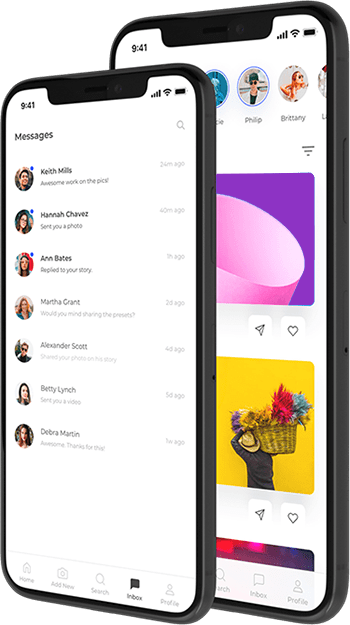
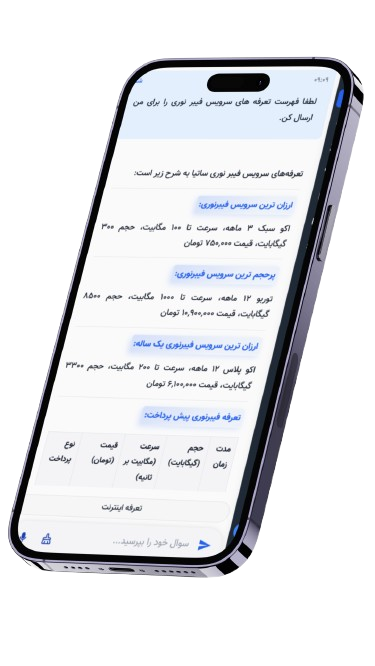
fix: edit navbar and replace some photos

diff --git a/src/app/globals.css b/src/app/globals.css
@@ -47,3 +47,44 @@ body {
   display: flex !important;
   align-items: center !important;
 }
+
+/* ===== Navbar mobile fixes ===== */
+@media (max-width: 991.98px) {
+  .navbar .navbar-collapse {
+    display: none !important;
+  }
+  .navbar .navbar-collapse.show {
+    display: block !important;
+  }
+
+  .navbar .nav-menu {
+    width: 100%;
+    margin: 12px auto 0 auto !important;
+    text-align: center !important;
+    display: flex !important;
+    flex-direction: column;
+    align-items: center;
+    gap: 6px;
+  }
+
+  .navbar .nav-menu .nav-item {
+    width: 100%;
+    display: flex;
+    justify-content: center;
+  }
+
+  .navbar .nav-menu .nav-link {
+    color: #fff !important;
+    font-weight: 500;
+    padding: 10px 0 !important;
+    display: inline-block;
+  }
+
+  .navbar .nav-menu .nav-cta {
+    width: calc(100% - 32px);
+    max-width: 320px;
+    margin: 6px auto 0 auto !important;
+    display: flex !important;
+    justify-content: center;
+  }
+}

diff --git a/src/components/Hero.tsx b/src/components/Hero.tsx
@@ -20,7 +20,7 @@ export default function Hero() {
                   Sina AI — دستیار هوشمند کسبوکار شما
                 </h1>
                 <p className="lead">
-                  با سینا AI در چند دقیقه چتبات و دستیارهای سفارشی بسازید، به
+                  با سینا در چند دقیقه چتبات و دستیارهای سفارشی بسازید، به
                   دادههای خودتان وصل کنید و تجربه مشتریان را متحول کنید.
                 </p>
   
@@ -38,7 +38,7 @@ export default function Hero() {
                   >
                     <i className="fas fa-play"></i>
                   </a>
-                  <span className="ps-2">دمو زنده</span>
+                  <span className="ps-2">دموی زنده</span>
                 </div>
   
                 <div className="hero-counter mt-4">

diff --git a/src/components/Navbar.tsx b/src/components/Navbar.tsx
@@ -76,7 +76,7 @@ export default function Navbar() {
             />
           </button>
 
-          <div className={`navbar-collapse ${open ? "show" : ""}`}>
+          <div className={`collapse navbar-collapse ${open ? "show" : ""}`}>
             <ul className="navbar-nav ms-auto menu align-items-lg-center nav-menu">
               {items.map((it) => (
                 <li className="nav-item" key={it.href}>
